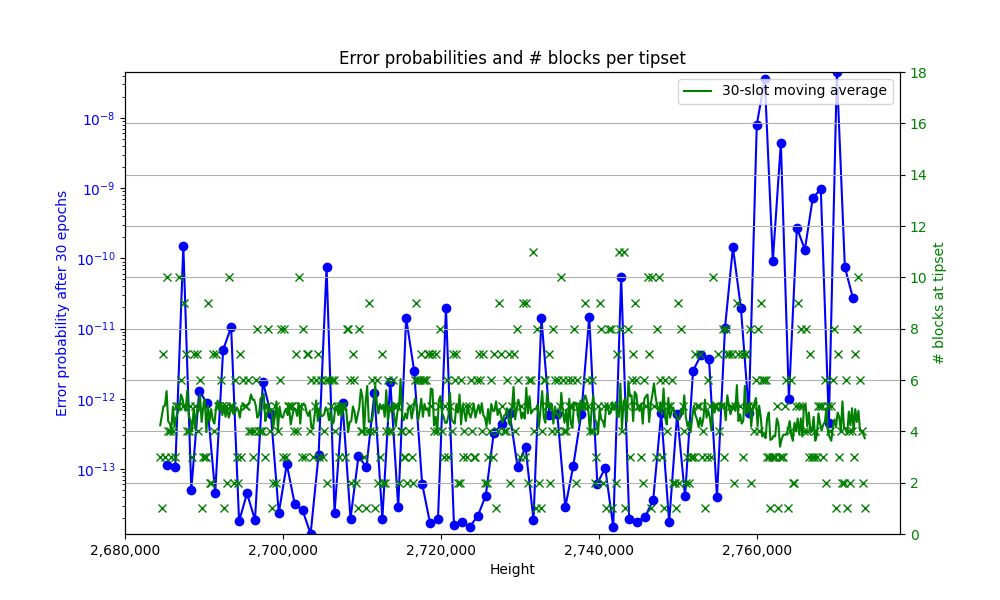
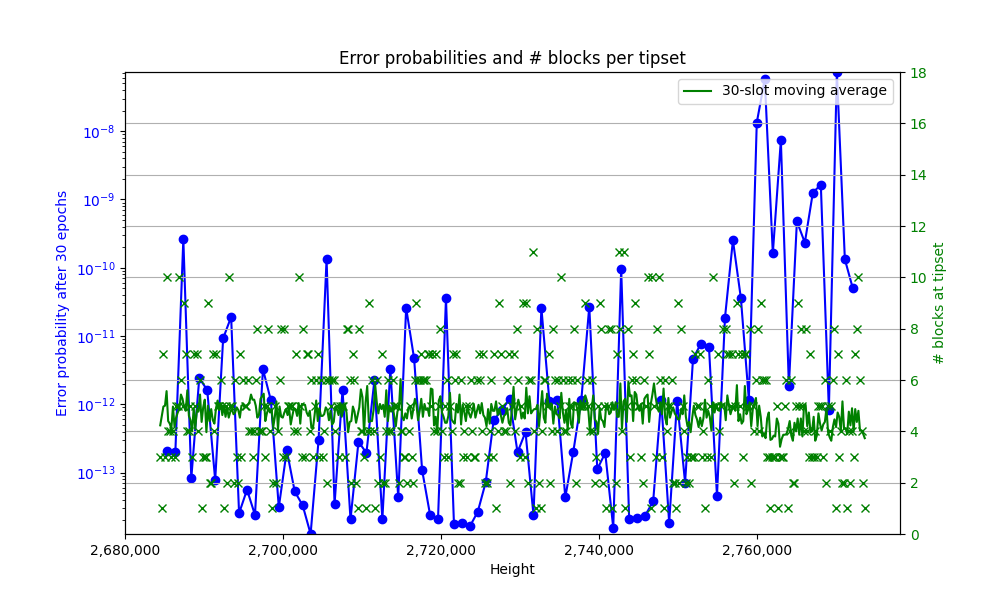
fix regression

diff --git a/finality_calc_validator.py b/finality_calc_validator.py
@@ -81,7 +81,7 @@ def finality_calc_validator(chain: list[int], blocks_per_epoch: float, byzantine
     # Calculate Pr(B=k) for each value of k
     for k in range(0, max_k_B + 1):
         # Poisson(k=k, lambda=sum(f*e))
-        pr_B[k] = ss.poisson.pmf(k, (current_epoch - (target_epoch + 1)) * rate_malicious_blocks)
+        pr_B[k] = ss.poisson.pmf(k, (current_epoch - target_epoch) * rate_malicious_blocks)
 
         # Break if pr_B[k] becomes negligible
         if k > 1 and pr_B[k] < negligible_threshold and pr_B[k] < pr_B[k-1]:
